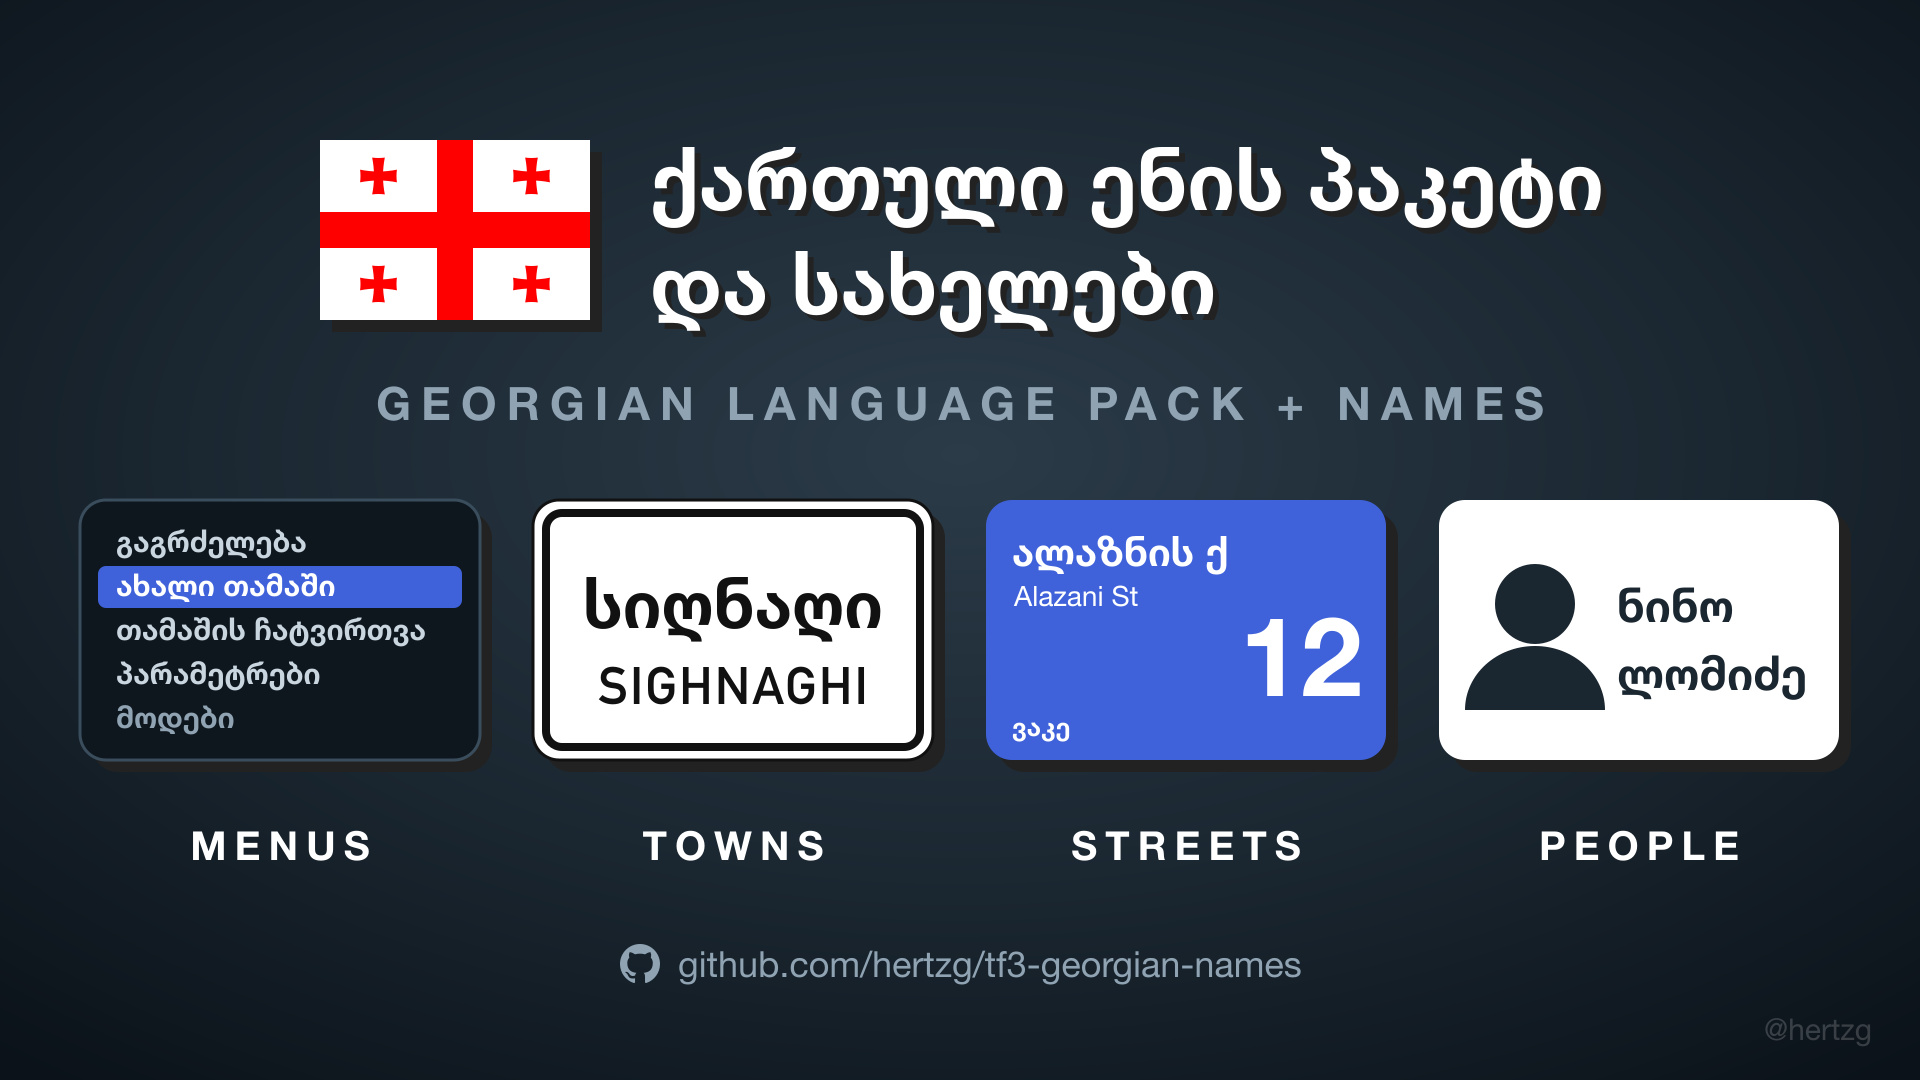
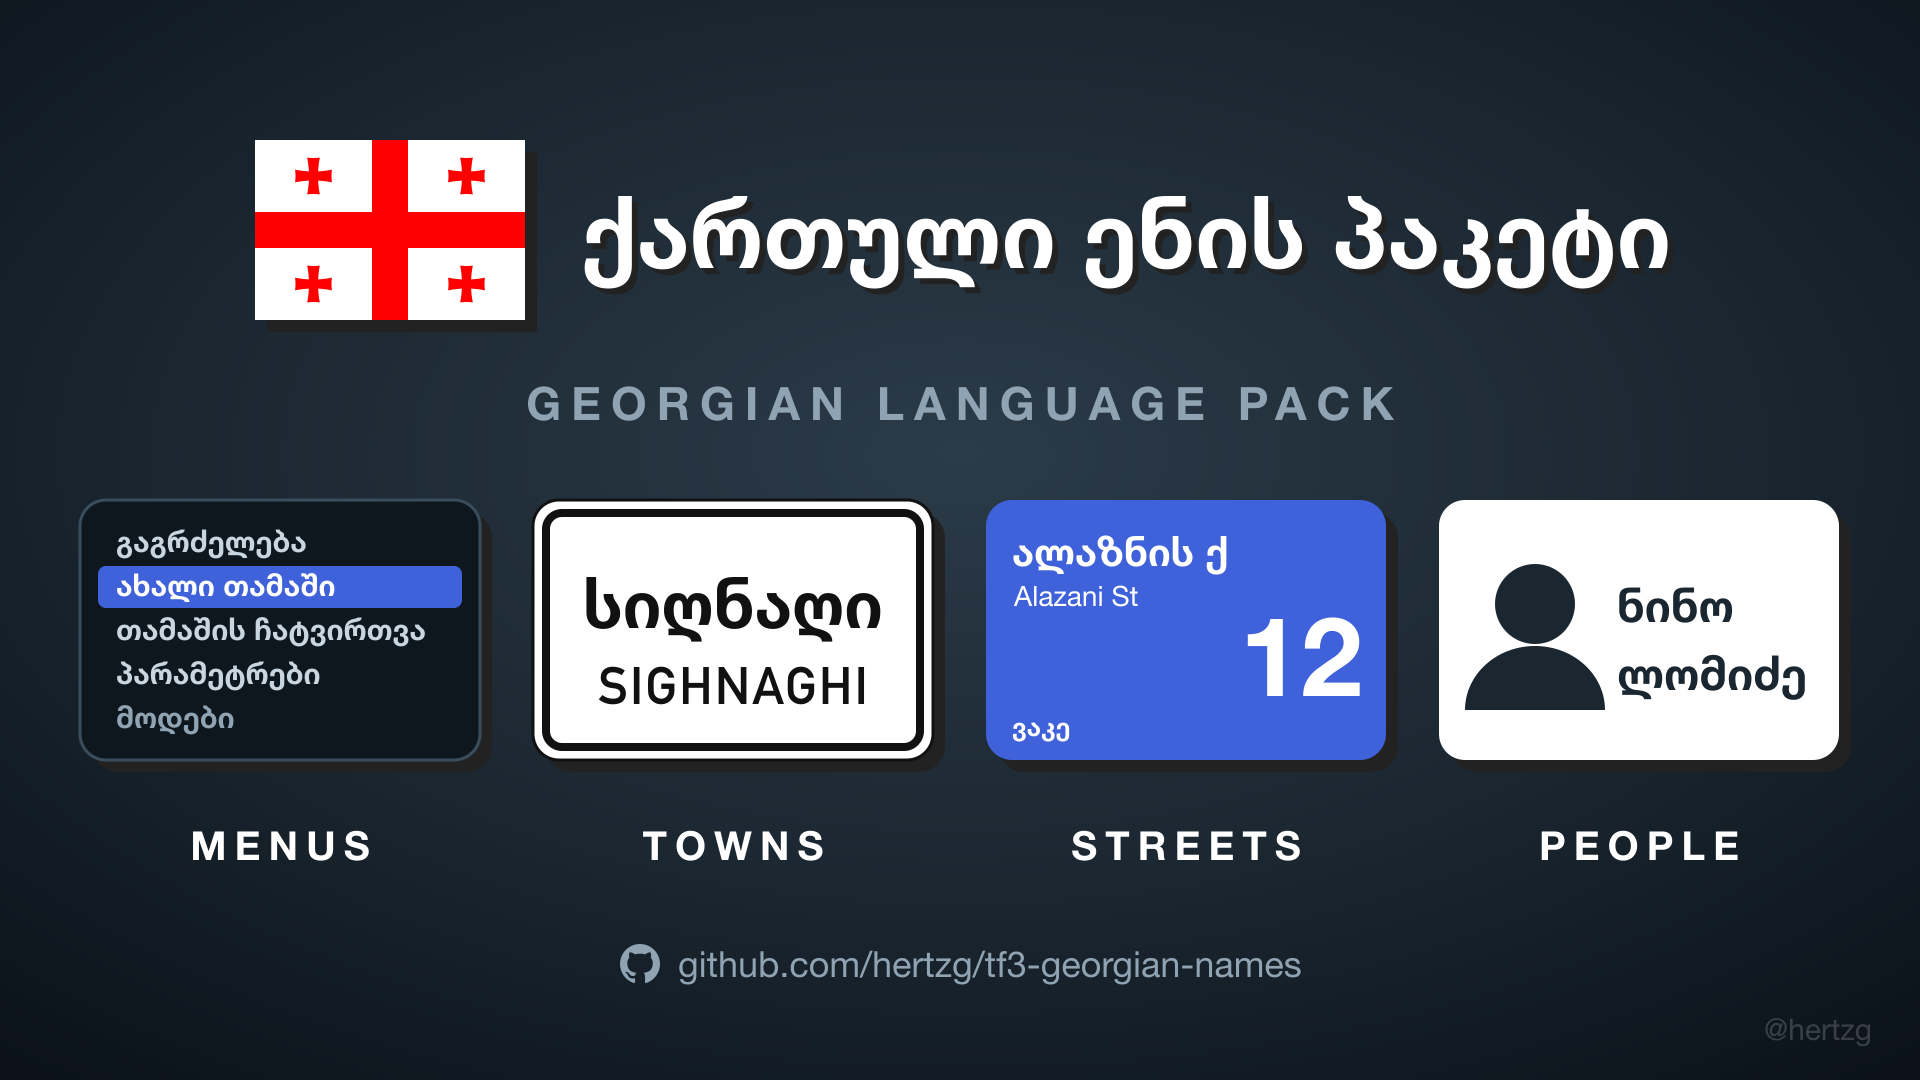
docs: rename the mod to georgian language pack

Changed region(s): [[0.125, 0.1222, 0.875, 0.3056], [0.1875, 0.3361, 0.8125, 0.3972]]

diff --git a/README.md b/README.md
@@ -1,4 +1,4 @@
-# Georgian Language Pack + Names (ქართული)
+# Georgian Language Pack (ქართული)
 
 A Transport Fever 3 mod that plays the game in Georgian: about 2,400 game texts
 translated, a font that can draw Georgian letters, and a name set with real
